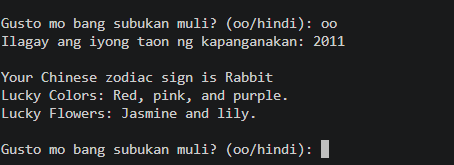
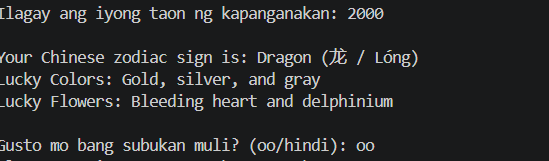
Update Chinese Zodiac program

diff --git a/ZodiacSectionCarampil.py b/ZodiacSectionCarampil.py
@@ -1,66 +1,93 @@
-#nakatagalog po ang ibang statements po kasi buwan ng wika ngayon :)
-def chinese_zodiacs():
-    sagot = "oo" 
-    while sagot == "oo":
-        # Ito po ay humihingi ang taon ng kapanganakan ng user
-        year = int(input("Ilagay ang iyong taon ng kapanganakan: "))
-        # Tinutukoy ang Chinese zodiac sign gamit ang remainder ng taon kapag hinati sa 12
-        if year < 1900:
-            print("\nHindi wastong taon, dapat ay mas maaga sa 1900.\n")
-        elif year % 12 == 0:
-            print("\nYour Chinese zodiac sign is Monkey")
-            print("Lucky Colors: White, blue, and gold.") 
-            print("Lucky Flowers: Chrysanthemum and allium.\n")
-        elif year % 12 == 1:
-            print("\nYour Chinese zodiac sign is Rooster")
-            print("Lucky Colors: Gold, brown, and yellow.") 
-            print("Lucky Flowers: Gladiolus and cockscomb.\n")  
-        elif year % 12 == 2:
-            print("\nYour Chinese zodiac sign is Dog")
-            print("Lucky Colors: Red, green, and purple.") 
-            print("Lucky Flowers: Rose and carnation.\n")
-        elif year % 12 == 3:
-            print("\nYour Chinese zodiac sign is Pig")
-            print("Lucky Colors: Yellow, gray, and brown.") 
-            print("Lucky Flowers: Hydrangea and lily.\n")   
-        elif year % 12 == 4:
-            print("\nYour Chinese zodiac sign is Rat")
-            print("Lucky Colors: Blue, gold, and green.") 
-            print("Lucky Flowers: Lily and African violet.\n")
-        elif year % 12 == 5:
-            print("\nYour Chinese zodiac sign is Ox")
-            print("Lucky Colors: White, yellow, and green.") 
-            print("Lucky Flowers: Lily and carnation.\n")
-        elif year % 12 == 6:
-            print("\nYour Chinese zodiac sign is Tiger")
-            print("Lucky Colors: Blue, gray, and orange.") 
-            print("Lucky Flowers: Cineraria and rose.\n")
-        elif year % 12 == 7:
-            print("\nYour Chinese zodiac sign is Rabbit")
-            print("Lucky Colors: Red, pink, and purple.") 
-            print("Lucky Flowers: Jasmine and lily.\n")
-        elif year % 12 == 8:
-            print("\nYour Chinese zodiac sign is Dragon")
-            print("Lucky Colors: Gold, silver, and gray.") 
-            print("Lucky Flowers: Bleeding heart and delphinium.\n")
-        elif year % 12 == 9:
-            print("\nYour Chinese zodiac sign is Snake")
-            print("Lucky Colors: Black, red, and yellow.") 
-            print("Lucky Flowers: Orchid and sunflower.\n")
-        elif year % 12 == 10:
-            print("\nYour Chinese zodiac sign is Horse")
-            print("Lucky Colors: Yellow, brown, and purple.") 
-            print("Lucky Flowers: Carnation and geranium.\n")
-        elif year % 12 == 11:
-            print("\nYour Chinese zodiac sign is Sheep")
-            print("Lucky Colors: Green, red, and purple.") 
-            print("Lucky Flowers: Carnation and rose.\n")
+# Nakatagalog po ang ibang statements kasi Buwan ng Wika ngayon :)
+zodiacSigns = [
+    {
+        "name": "Rat (鼠 / Shǔ)",
+        "color": "Blue, gold, and green",
+        "flower": "Lily and African violet"
+    },
+    {
+        "name": "Ox (牛 / Niú)",
+        "color": "White, yellow, and green",
+        "flower": "Lily and carnation"
+    },
+    {
+        "name": "Tiger (虎 / Hǔ)",
+        "color": "Blue, gray, and orange",
+        "flower": "Cineraria and rose"
+    },
+    {
+        "name": "Rabbit (兔 / Tù)",
+        "color": "Red, pink, and purple",
+        "flower": "Jasmine and lily"
+    },
+    {
+        "name": "Dragon (龙 / Lóng)",
+        "color": "Gold, silver, and gray",
+        "flower": "Bleeding heart and delphinium"
+    },
+    {
+        "name": "Snake (蛇 / Shé)",
+        "color": "Black, red, and yellow",
+        "flower": "Orchid and sunflower"
+    },
+    {
+        "name": "Horse (马 / Mǎ)",
+        "color": "Yellow, brown, and purple",
+        "flower": "Carnation and geranium"
+    },
+    {
+        "name": "Goat (羊 / Yáng)",
+        "color": "Green, red, and purple",
+        "flower": "Carnation and rose"
+    },
+    {
+        "name": "Monkey (猴 / Hóu)",
+        "color": "White, blue, and gold",
+        "flower": "Chrysanthemum and allium"
+    },
+    {
+        "name": "Rooster (鸡 / Jī)",
+        "color": "Gold, brown, and yellow",
+        "flower": "Gladiolus and cockscomb"
+    },
+    {
+        "name": "Dog (狗 / Gǒu)",
+        "color": "Red, green, and purple",
+        "flower": "Rose and carnation"
+    },
+    {
+        "name": "Pig (猪 / Zhū)",
+        "color": "Yellow, gray, and brown",
+        "flower": "Hydrangea and lily"
+    }
+]
+sagot = "oo"
+while sagot == "oo":
+
+    year = int(input("Ilagay ang iyong taon ng kapanganakan: "))
+
+    if year < 1900:
+        print("\nHindi wastong taon. Dapat ay 1900 o mas bago.\n")
         sagot = input("Gusto mo bang subukan muli? (oo/hindi): ")
-        if sagot == "oo":
-           continue
+        if sagot.lower() == "oo":
+                continue
         else:
-            print("Maraming salamat sa paggamit ng programa!!")
-            break
+                 break
+      
 
-chinese_zodiacs()
+    # Kinukuha ang zodiac sign gamit ang 12-year cycle
+    sign = (year - 1900) % 12
+    zodiac = zodiacSigns[sign]
 
+    print("\nYour Chinese zodiac sign is:", zodiac["name"])
+    print("Lucky Colors:", zodiac["color"])
+    print("Lucky Flowers:", zodiac["flower"])
+    print()
+
+    sagot = input("Gusto mo bang subukan muli? (oo/hindi): ")
+    if sagot.lower() == "oo":
+        continue
+    else:
+        break
+    
+print("Maraming salamat sa paggamit ng programa!!")
